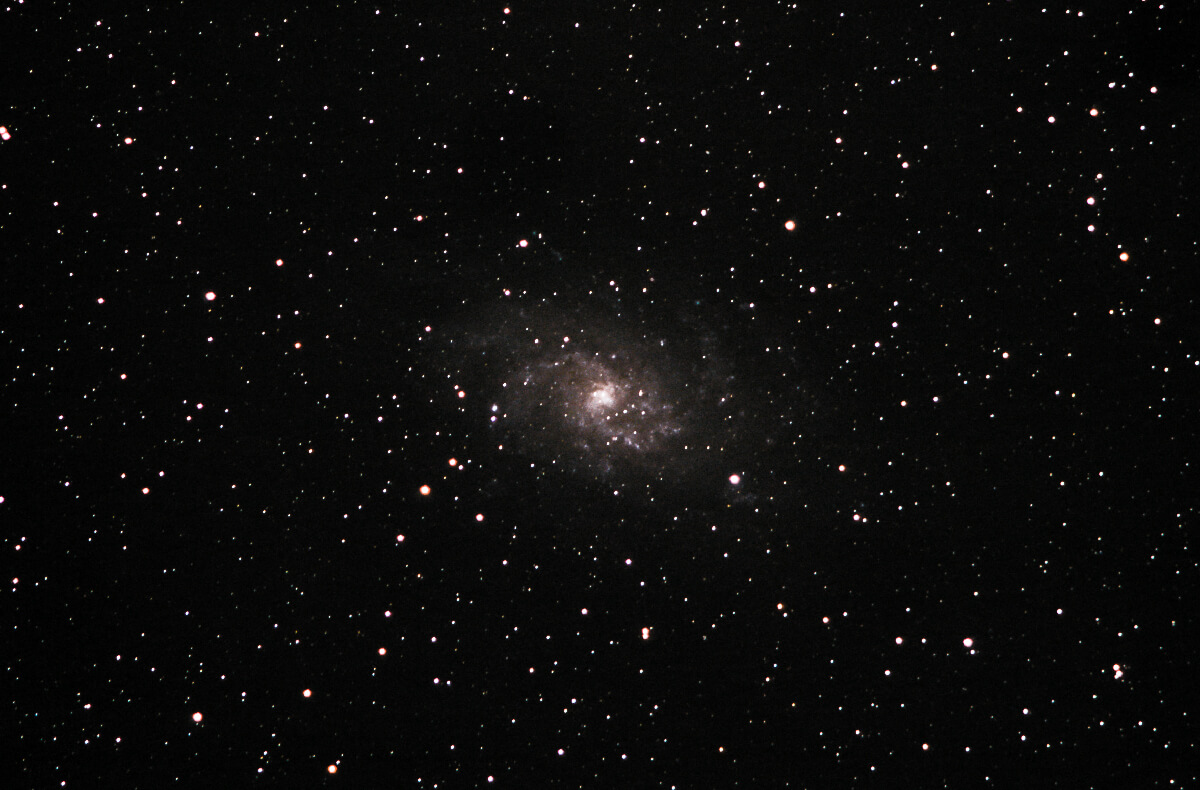
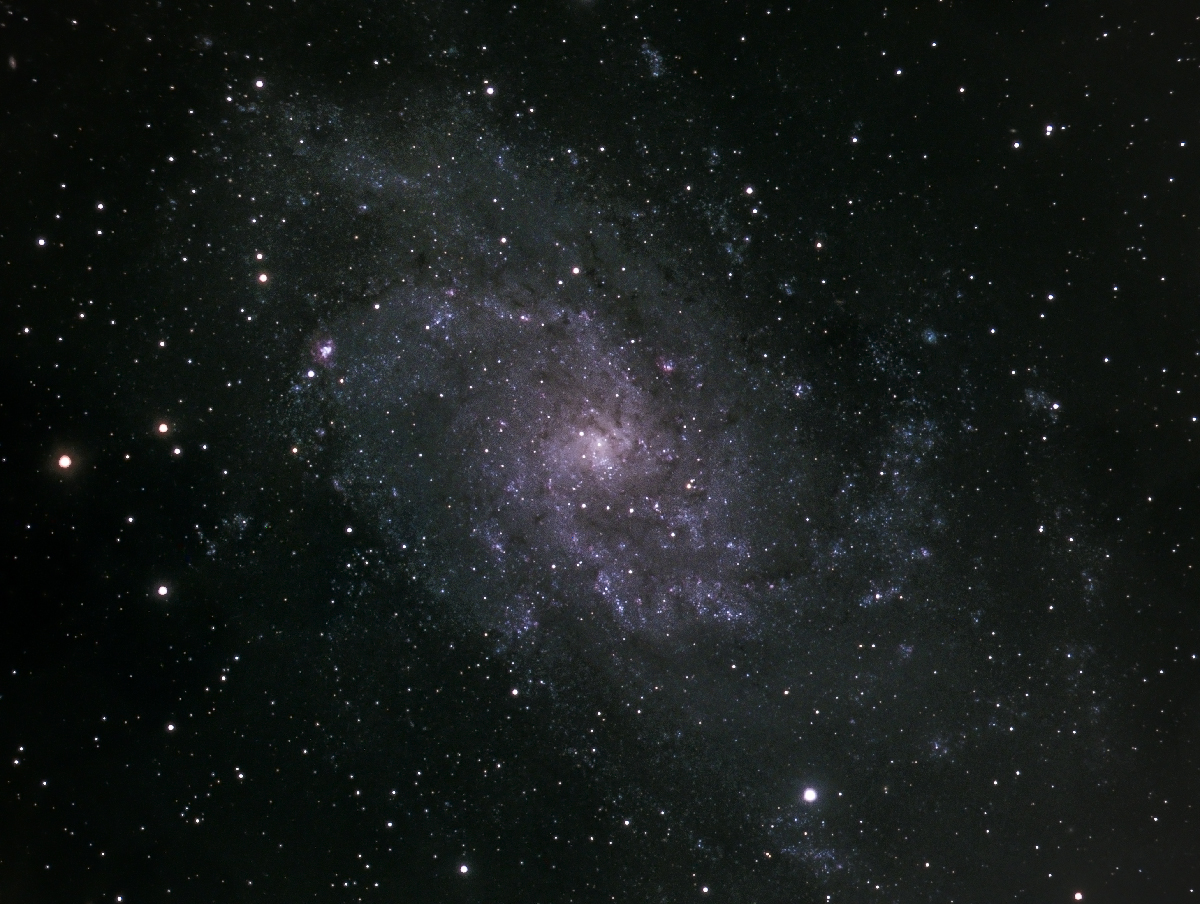
Updated m33, shuffled some objects around

diff --git a/index.html b/index.html
@@ -63,6 +63,48 @@
 
       <figure class="mb-4 sm:mb-5">
         <picture>
+          <source srcset="assets/images/webp/m33-1.webp" type="image/webp">
+          <source srcset="assets/images/jpeg/m33-1.jpg" type="image/jpeg">
+          <img src="assets/images/jpeg/m33-1.jpg" class="mb-2">
+        </picture>
+
+        <div class="md:flex align-start justify-between text-small">
+          <figcaption class="md:w-3/5">
+            <strong>M33 Triangulum Galaxy.</strong> Total intergation time of 180 minutes.
+            <br>
+            Taken with Sky-watcher 120ed with 60mm Auto-guider.
+          </figcaption>
+
+          <div class="md:w-2/5 mt-2 md:mt-0 md:text-right">
+            <time>September 18, 2020</time>
+            <a href="assets/images/large/m33-1.jpg" class="text-light" target="_blank">View full screen</a> <small>(3MB)</small>
+          </div>
+        </div>
+      </figure>
+
+      <figure class="mb-4 sm:mb-5">
+        <picture>
+          <source srcset="assets/images/webp/m51-2.webp" type="image/webp">
+          <source srcset="assets/images/jpeg/m51-2.jpg" type="image/jpeg">
+          <img src="assets/images/jpeg/m106-1.jpg" class="mb-2">
+        </picture>
+
+        <div class="md:flex align-start justify-between text-small">
+          <figcaption class="md:w-3/5">
+            <strong>M51.</strong> Total intergation time of 300 minutes.
+            <br>
+            Taken with Sky-watcher 120ed with 60mm Auto-guider.
+          </figcaption>
+
+          <div class="md:w-2/5 mt-2 md:mt-0 md:text-right">
+            <time>April 14 - May 13, 2020</time>
+            <a href="assets/images/large/m51-2.jpg" class="text-light" target="_blank">View full screen</a> <small>(1.6MB)</small>
+          </div>
+        </div>
+      </figure>
+
+      <figure class="mb-4 sm:mb-5">
+        <picture>
           <source srcset="assets/images/webp/orion-3.webp" type="image/webp">
           <source srcset="assets/images/jpeg/orion-3.jpg" type="image/jpeg">
           <img src="assets/images/jpeg/orion-3.jpg" class="mb-2">
@@ -126,27 +168,6 @@
 
       <figure class="mb-4 sm:mb-5">
         <picture>
-          <source srcset="assets/images/webp/m81-2.webp" type="image/webp">
-          <source srcset="assets/images/jpeg/m81-2.jpg" type="image/jpeg">
-          <img src="assets/images/jpeg/m81-2.jpg" class="mb-2">
-        </picture>
-
-        <div class="md:flex align-start justify-between text-small">
-          <figcaption class="md:w-3/5">
-            <strong>M81 and M82.</strong> Total intergation time of 90 minutes.
-            <br>
-            Taken with Sky-watcher 120ed with 60mm Auto-guider.
-          </figcaption>
-
-          <div class="md:w-2/5 mt-2 md:mt-0 md:text-right">
-            <time>January 15, 2020</time>
-            <a href="assets/images/large/m81-2.jpg" class="text-light" target="_blank">View full screen</a> <small>(9MB)</small>
-          </div>
-        </div>
-      </figure>
-
-      <figure class="mb-4 sm:mb-5">
-        <picture>
           <source srcset="assets/images/webp/m101-1.webp" type="image/webp">
           <source srcset="assets/images/jpeg/m101-1.jpg" type="image/jpeg">
           <img src="assets/images/jpeg/m101-1.jpg" class="mb-2">
@@ -189,42 +210,21 @@
 
       <figure class="mb-4 sm:mb-5">
         <picture>
-          <source srcset="assets/images/webp/m51-2.webp" type="image/webp">
-          <source srcset="assets/images/jpeg/m51-2.jpg" type="image/jpeg">
-          <img src="assets/images/jpeg/m106-1.jpg" class="mb-2">
+          <source srcset="assets/images/webp/m81-2.webp" type="image/webp">
+          <source srcset="assets/images/jpeg/m81-2.jpg" type="image/jpeg">
+          <img src="assets/images/jpeg/m81-2.jpg" class="mb-2">
         </picture>
 
         <div class="md:flex align-start justify-between text-small">
           <figcaption class="md:w-3/5">
-            <strong>M51.</strong> Total intergation time of 300 minutes.
+            <strong>M81 and M82.</strong> Total intergation time of 90 minutes.
             <br>
             Taken with Sky-watcher 120ed with 60mm Auto-guider.
           </figcaption>
 
           <div class="md:w-2/5 mt-2 md:mt-0 md:text-right">
-            <time>April 14 - May 13, 2020</time>
-            <a href="assets/images/large/m51-2.jpg" class="text-light" target="_blank">View full screen</a> <small>(1.6MB)</small>
-          </div>
-        </div>
-      </figure>
-
-      <figure class="mb-4 sm:mb-5">
-        <picture>
-          <source srcset="assets/images/webp/m33-1.webp" type="image/webp">
-          <source srcset="assets/images/jpeg/m33-1.jpg" type="image/jpeg">
-          <img src="assets/images/jpeg/m33-1.jpg" class="mb-2">
-        </picture>
-
-        <div class="md:flex align-start justify-between text-small">
-          <figcaption class="md:w-3/5">
-            <strong>Triangulum Galaxy.</strong> Total intergation time of 120 minutes.
-            <br>
-            Taken at 200mm with 1.4x teleconverter @ f4.0.
-          </figcaption>
-
-          <div class="md:w-2/5 mt-2 md:mt-0 md:text-right">
-            <time>November 17, 2018</time>
-            <a href="assets/images/large/m33-1.jpg" class="text-light" target="_blank">View full screen</a> <small>(2MB)</small>
+            <time>January 15, 2020</time>
+            <a href="assets/images/large/m81-2.jpg" class="text-light" target="_blank">View full screen</a> <small>(9MB)</small>
           </div>
         </div>
       </figure>
